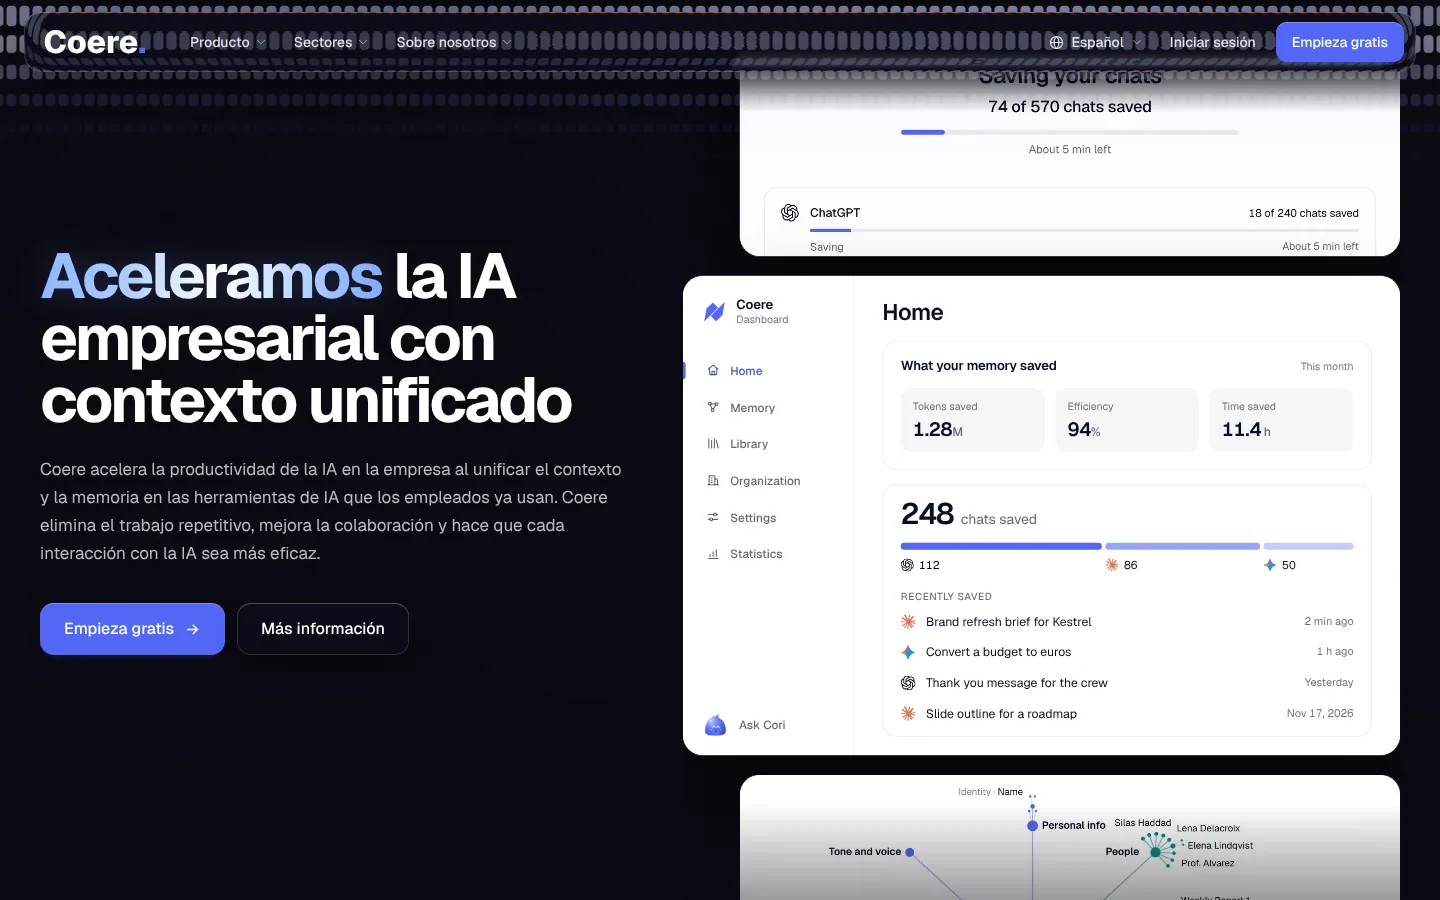
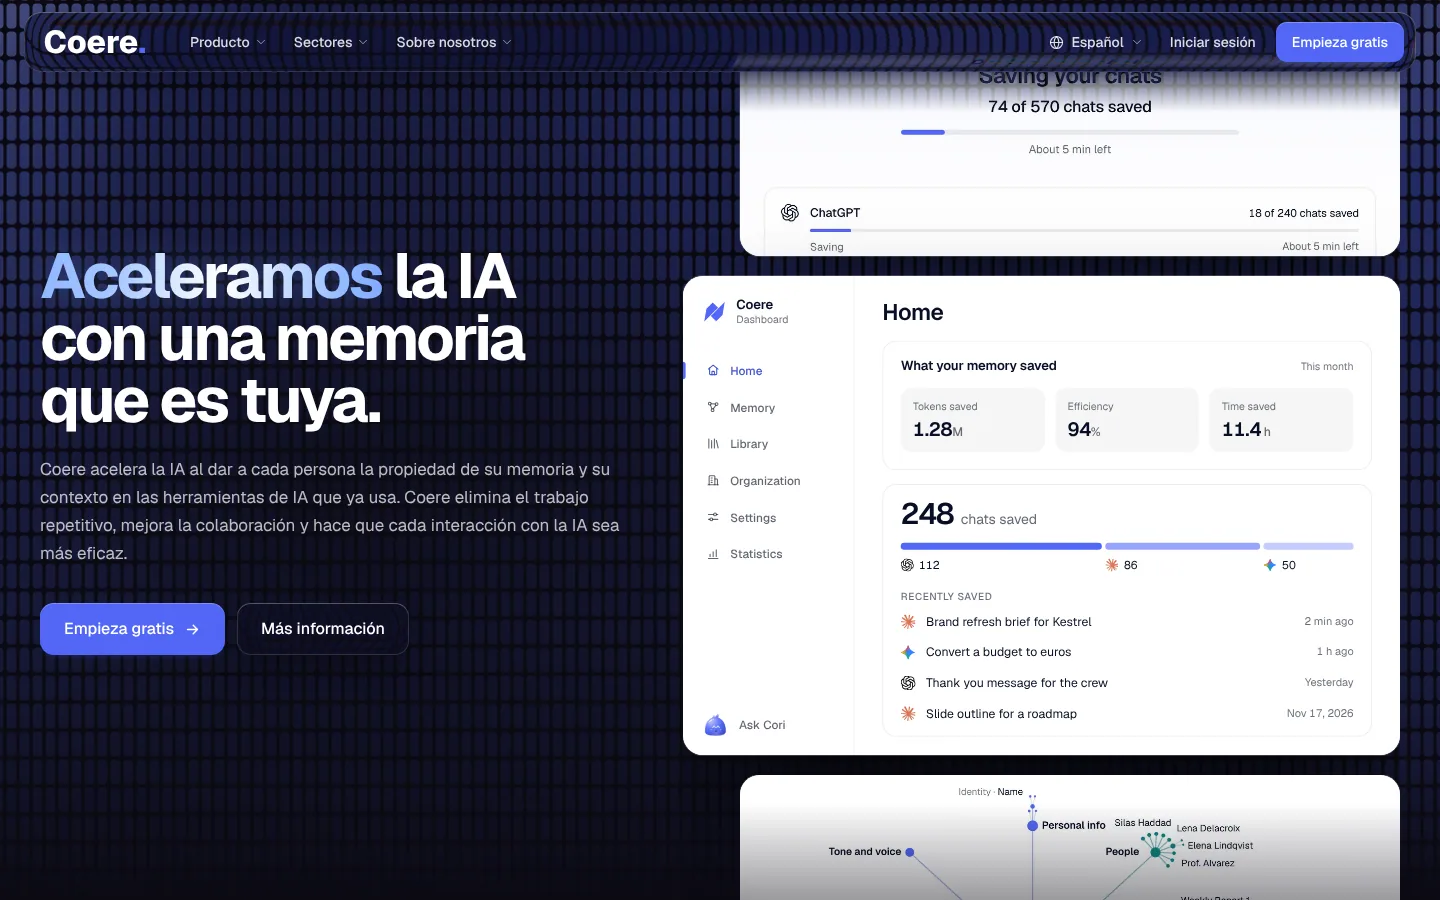
Lead the home page with memory you own
The owner rewrote the hero: Accelerating AI with memory you own, and a paragraph on giving people ownership of their memory and context. It is in all five languages, with the first word still shimmering, and the site share image and the README pictures and captions follow.

Claude-Session: https://claude.ai/code/session_01Ur6uqNCXa3ecJ23BnM9D9o

Changed region(s): [[0.0, 0.0, 1.0, 0.9022]]

diff --git a/src/site/i18n/messages/ja/home.ts b/src/site/i18n/messages/ja/home.ts
@@ -2,9 +2,9 @@ import type { Messages } from "../types";
 
 export const home: Messages["home"] = {
   hero: {
-    title: "統合されたコンテキストで、エンタープライズAIを[加速する]",
+    title: "あなたが所有する記憶で、AIを[加速する]。",
     paragraph:
-      "Coereは、社員がすでに使っているAIツールのあいだでコンテキストと記憶を統合し、企業のAI活用の生産性を高めます。繰り返しの作業をなくし、コラボレーションを深め、AIとのあらゆるやり取りをより効果的にします。",
+      "Coereは、すでに使っているAIツールのあいだで、記憶とコンテキストの所有権をユーザー自身に渡すことで、AIを加速します。繰り返しの作業をなくし、コラボレーションを深め、AIとのあらゆるやりとりをより効果的にします。",
     extractionAlt: "Mayaのチャットを保存するCoere：570件中74件を保存済み、残り約5分、ChatGPTは240件中18件",
     graphAlt: "記憶ページのグラフ：本人から個人情報、人物、トーンと声、文体、仕事が枝分かれしています",
   },

diff --git a/src/site/i18n/messages/fr/home.ts b/src/site/i18n/messages/fr/home.ts
@@ -2,9 +2,9 @@ import type { Messages } from "../types";
 
 export const home: Messages["home"] = {
   hero: {
-    title: "[Accélérer] l’IA d’entreprise grâce au contexte unifié",
+    title: "[Accélérer] l’IA avec une mémoire qui vous appartient.",
     paragraph:
-      "Coere accélère la productivité de l’IA en entreprise en unifiant le contexte et la mémoire dans les outils d’IA que les collaborateurs utilisent déjà. Coere supprime les tâches répétitives, améliore la collaboration et rend chaque échange avec l’IA plus efficace.",
+      "Coere accélère l’IA en rendant à chacun la propriété de sa mémoire et de son contexte dans les outils d’IA qu’il utilise déjà. Coere supprime les tâches répétitives, améliore la collaboration et rend chaque échange avec l’IA plus efficace.",
     extractionAlt: "Coere enregistre les conversations de Maya : 74 sur 570 enregistrées, environ 5 minutes restantes, et ChatGPT à 18 sur 240",
     graphAlt: "Le graphe de la page Mémoire : Infos personnelles, Personnes, Ton et voix, Style d’écriture et Travail, qui partent de la personne",
   },

diff --git a/src/site/i18n/messages/es/home.ts b/src/site/i18n/messages/es/home.ts
@@ -2,9 +2,9 @@ import type { Messages } from "../types";
 
 export const home: Messages["home"] = {
   hero: {
-    title: "[Aceleramos] la IA empresarial con contexto unificado",
+    title: "[Aceleramos] la IA con una memoria que es tuya.",
     paragraph:
-      "Coere acelera la productividad de la IA en la empresa al unificar el contexto y la memoria en las herramientas de IA que los empleados ya usan. Coere elimina el trabajo repetitivo, mejora la colaboración y hace que cada interacción con la IA sea más eficaz.",
+      "Coere acelera la IA al dar a cada persona la propiedad de su memoria y su contexto en las herramientas de IA que ya usa. Coere elimina el trabajo repetitivo, mejora la colaboración y hace que cada interacción con la IA sea más eficaz.",
     extractionAlt: "Coere guardando los chats de Maya: 74 de 570 chats guardados, quedan unos 5 minutos y ChatGPT va por 18 de 240",
     graphAlt: "El grafo de la página Memoria: Información personal, Personas, Tono y voz, Estilo de escritura y Trabajo, que salen de la persona",
   },

diff --git a/src/site/i18n/messages/en/home.ts b/src/site/i18n/messages/en/home.ts
@@ -2,10 +2,10 @@
 export const home = {
   hero: {
     /** The owner's heading. The word in [brackets] shimmers. */
-    title: "[Accelerating] Enterprise AI with Unified Context",
+    title: "[Accelerating] AI with memory you own.",
     /** The owner's paragraph, as he wrote it. */
     paragraph:
-      "Coere accelerates enterprise AI productivity by unifying context and memory across the AI tools employees already use. Coere eliminates repetitive work, improves collaboration, and makes every AI interaction more effective.",
+      "Coere accelerates AI by giving users ownership of their memory and context across the AI tools they already use. Coere eliminates repetitive work, improves collaboration, and makes every AI interaction more effective.",
     extractionAlt: "Coere saving Maya's chats: 74 of 570 chats saved, about 5 minutes left, and ChatGPT at 18 of 240",
     graphAlt: "The Memory page's graph: Personal info, People, Tone and voice, Writing style and Work branching from the person",
   },

diff --git a/src/site/i18n/messages/nl/home.ts b/src/site/i18n/messages/nl/home.ts
@@ -2,9 +2,9 @@ import type { Messages } from "../types";
 
 export const home: Messages["home"] = {
   hero: {
-    title: "[Versnel] zakelijke AI met verenigde context",
+    title: "[Versnel] AI met een geheugen dat van jou is.",
     paragraph:
-      "Coere verhoogt de productiviteit van AI in het bedrijf door context en geheugen te verenigen in de AI-tools die medewerkers al gebruiken. Coere schrapt herhaald werk, verbetert de samenwerking en maakt elke interactie met AI effectiever.",
+      "Coere versnelt AI door gebruikers eigenaar te maken van hun geheugen en context in de AI-tools die ze al gebruiken. Coere schrapt herhaald werk, verbetert de samenwerking en maakt elke interactie met AI effectiever.",
     extractionAlt: "Coere bewaart Maya's chats: 74 van 570 chats bewaard, nog ongeveer 5 minuten, en ChatGPT op 18 van 240",
     graphAlt: "De graaf op de pagina Geheugen: Persoonlijke info, Mensen, Toon en stem, Schrijfstijl en Werk, vertakkend vanuit de persoon",
   },

diff --git a/src/site/share/site-image.tsx b/src/site/share/site-image.tsx
@@ -45,8 +45,8 @@ export async function siteShareImage(): Promise<ImageResponse> {
           <img src={logo} width={Math.round((logoHeight * WORDMARK_CROP.width) / WORDMARK_CROP.height)} height={logoHeight} alt="" />
           <div style={{ display: "flex", flexDirection: "column", color: "#fff", fontSize: 66, lineHeight: 1.02, letterSpacing: "-0.045em" }}>
             <span style={{ backgroundImage: "linear-gradient(90deg, #e6f1ff 0%, #b4d0ff 30%, #8fb8ff 58%, #5f78fb 100%)", backgroundClip: "text", color: "transparent", paddingBottom: 4 }}>Accelerating</span>
-            <span>Enterprise AI with</span>
-            <span>Unified Context</span>
+            <span>AI with memory</span>
+            <span>you own.</span>
           </div>
           <div style={{ display: "flex", fontSize: 24, letterSpacing: "-0.01em", color: "rgba(255,255,255,0.55)" }}>coere.ai</div>
         </div>

diff --git a/src/lib/seo.ts b/src/lib/seo.ts
@@ -45,7 +45,7 @@ export function languageAlternates(path: string): Record<string, string> {
 }
 
 /** What the site's share picture shows, for people who cannot see it. */
-export const SHARE_ALT = "Coere: Accelerating Enterprise AI with Unified Context. The Coere mark among the AI logos on a pixel wall.";
+export const SHARE_ALT = "Coere: Accelerating AI with memory you own. The Coere mark among the AI logos on a pixel wall.";
 
 /**
  * The share picture, drawn at build time by app/opengraph-image.tsx and

diff --git a/README.md b/README.md
@@ -35,7 +35,7 @@ pictures: [the site](docs/screenshots/site/README.md),
 ### The site
 
 <p align="center">
-  <img src="docs/screenshots/site/home-hero.webp" width="100%" alt="The dark home hero under the dark glass navbar: Accelerating Enterprise AI with Unified Context, the paragraph, Start for free and Learn more on the left over blue MicroSlats, and on the right three tall tiles: Coere saving chats cut off at the top, the dashboard with tokens saved, efficiency, time saved and recent chats, and the memory graph cut off at the foot" />
+  <img src="docs/screenshots/site/home-hero.webp" width="100%" alt="The dark home hero under the dark glass navbar: Accelerating AI with memory you own., the paragraph, Start for free and Learn more on the left over blue MicroSlats, and on the right three tall tiles: Coere saving chats cut off at the top, the dashboard with tokens saved, efficiency, time saved and recent chats, and the memory graph cut off at the foot" />
   <br />
   <sub>The home page: what Coere does, beside Coere saving chats, the dashboard and the memory graph. The page stays dark to its footer. <a href="docs/screenshots/site/home.webp">The whole page</a>.</sub>
 </p>

diff --git a/docs/screenshots/site/README.md b/docs/screenshots/site/README.md
@@ -9,7 +9,7 @@ every page is on near black from the navbar to the footer.
 ## Home
 
 <p align="center">
-  <img src="home-hero.webp" width="100%" alt="The dark home hero under the dark glass navbar: Accelerating Enterprise AI with Unified Context, the paragraph, Start for free and Learn more on the left over blue MicroSlats, and three tall tiles on the right: Coere saving chats cut off at the top, the dashboard with its rail, tokens saved, efficiency, time saved and recent chats, and the memory graph cut off at the foot" />
+  <img src="home-hero.webp" width="100%" alt="The dark home hero under the dark glass navbar: Accelerating AI with memory you own., the paragraph, Start for free and Learn more on the left over blue MicroSlats, and three tall tiles on the right: Coere saving chats cut off at the top, the dashboard with its rail, tokens saved, efficiency, time saved and recent chats, and the memory graph cut off at the foot" />
   <br />
   <sub>The first screen: what Coere does and the way in, beside Coere saving chats, the dashboard and the memory graph, running from the top of the hero to its foot.</sub>
 </p>
